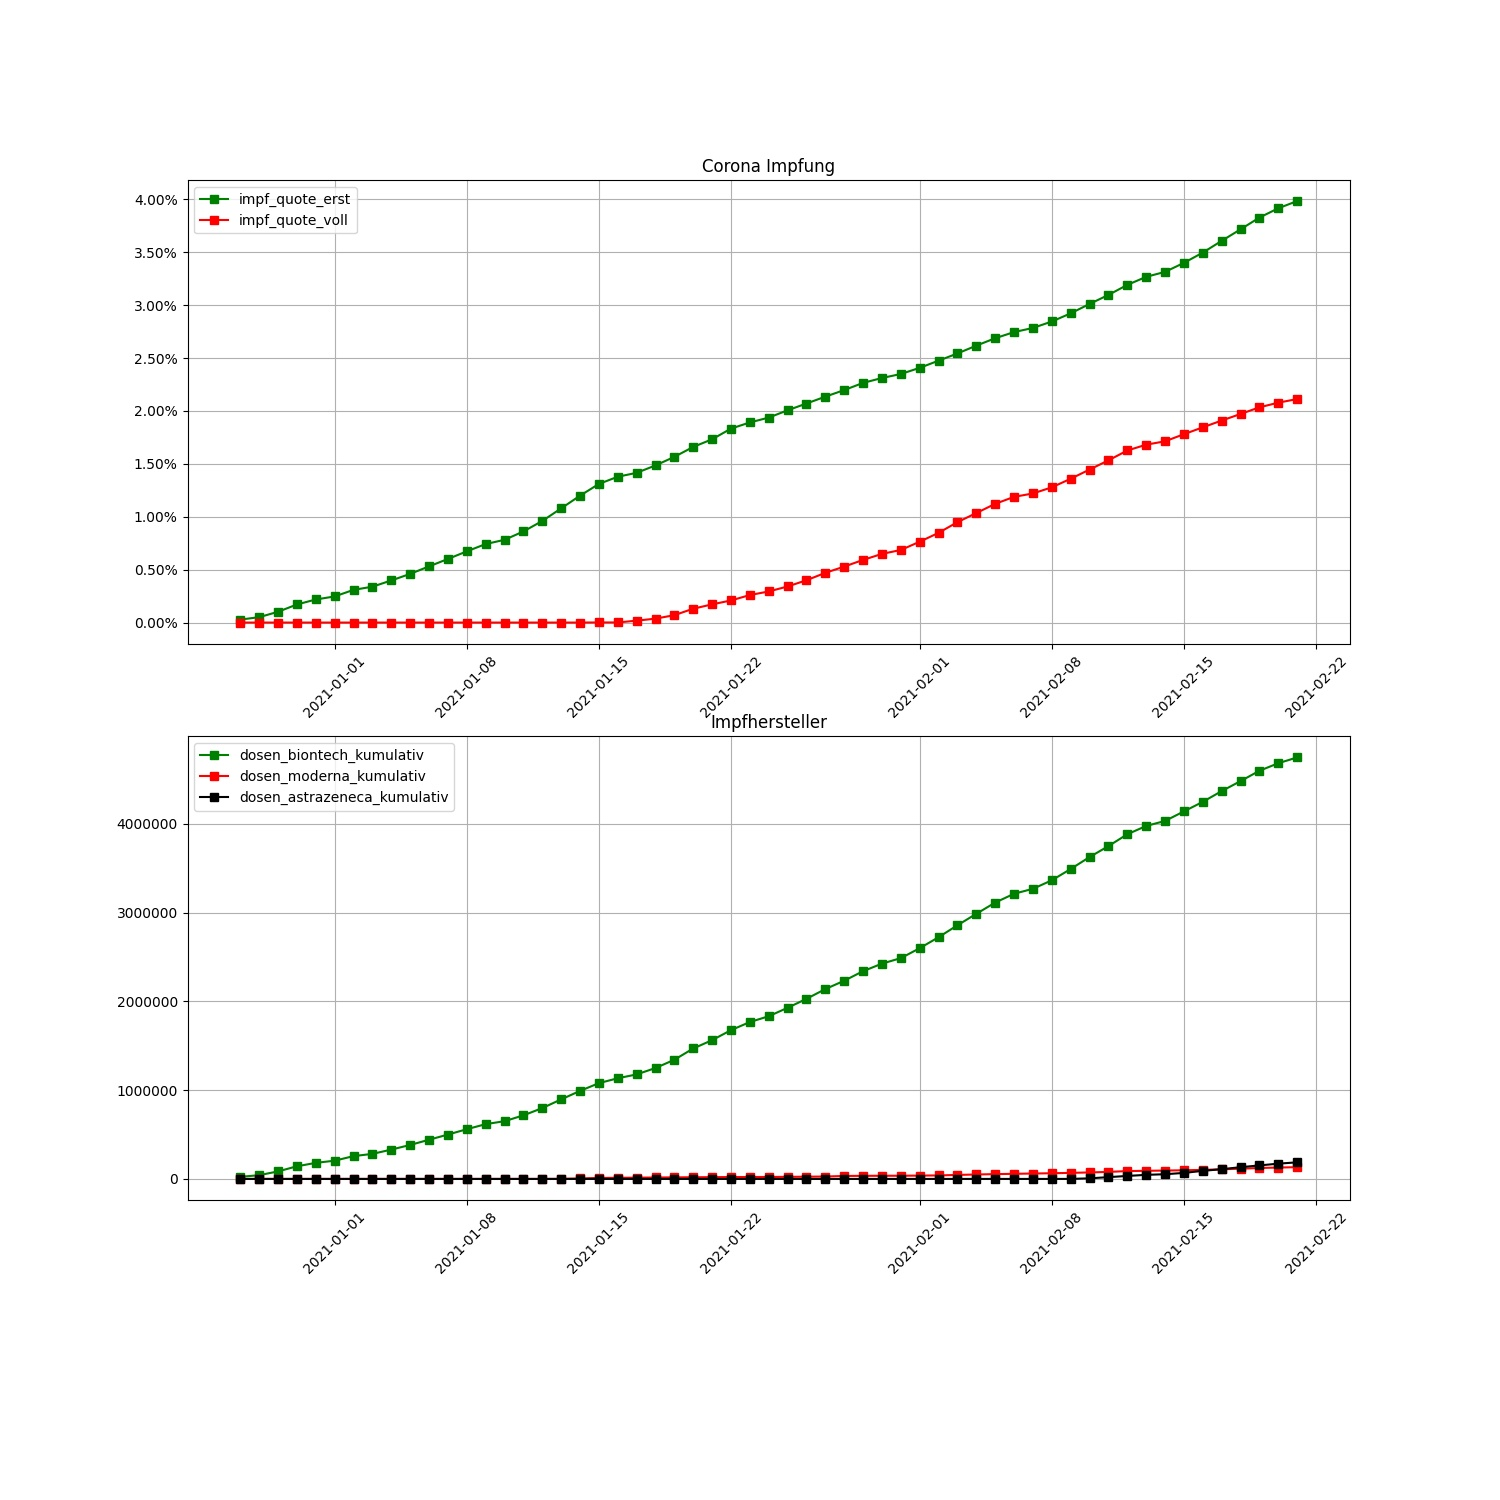
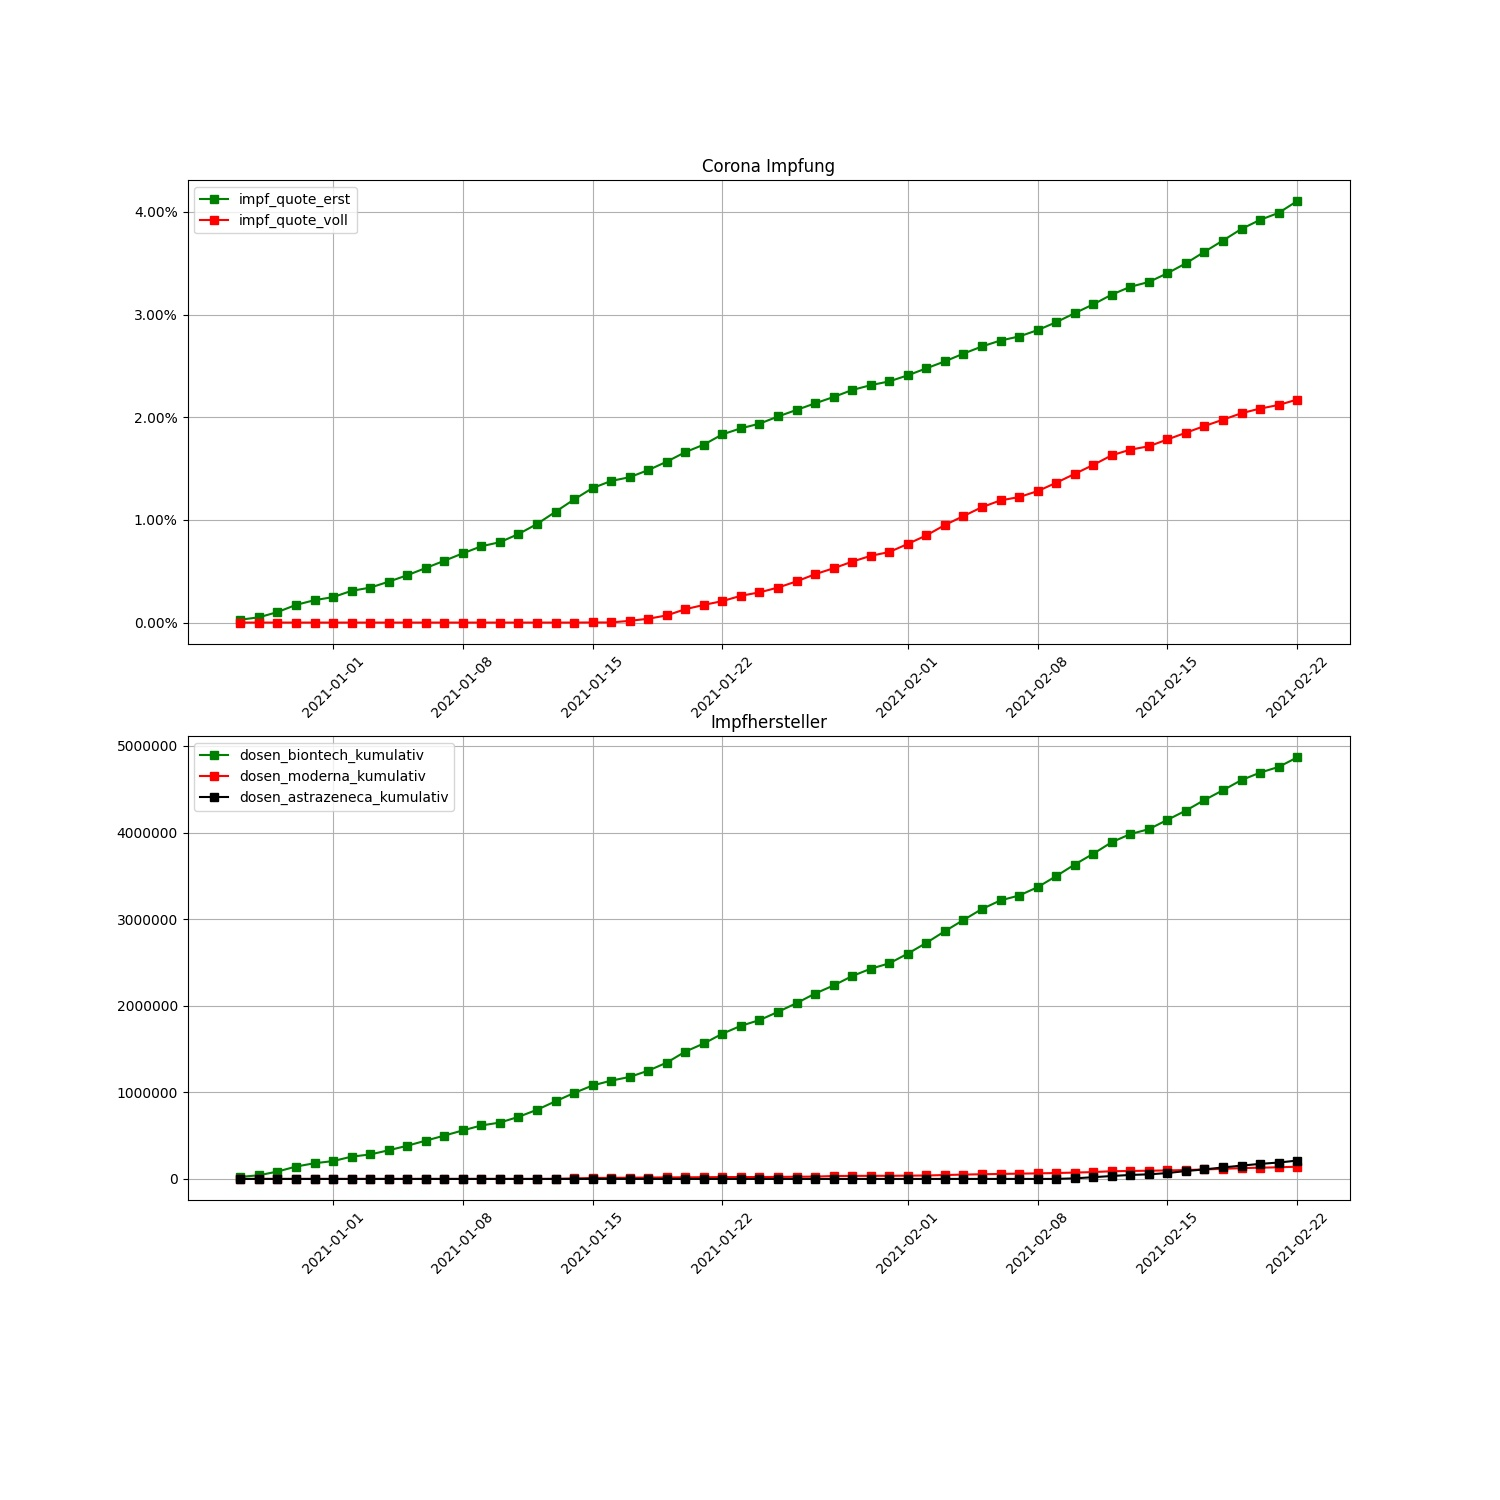
Crontab commit

diff --git a/Readme.md b/Readme.md
@@ -1,19 +1,19 @@
-# Corona vaccine Germany - Stand 2021-02-21
+# Corona vaccine Germany - Stand 2021-02-22
 ## Dashboard by [Simon Hamacher](https://www.shamacher.eu)
 ## Impfstoffe Übersicht
 **Impfstoffhersteller** | **verimpfte Dosen**
 -------- | :--------:
-Biontech | 4749455
-Moderna | 132354
-Astrazeneca | 187020
+Biontech | 4867212
+Moderna | 141238
+Astrazeneca | 211886
 
 
 ## Quoten
-**Total Verimpfte Dosen:** | 5068829
+**Total Verimpfte Dosen:** | 5220336
 -------- | :--------:
-**Erst-Impfquote** | 3.98 %
-**Voll-Impfquote** | 2.11 %
-**Imfungen Durchschnitt** | 88926.82 pro Tag
+**Erst-Impfquote** | 4.10 %
+**Voll-Impfquote** | 2.17 %
+**Imfungen Durchschnitt** | 90005.79 pro Tag
 ## Graphen
 <img src="Impfungen-Corona-01.jpg" alt="Corona-1" title="optionaler Titel" />
 <img src="Impfungen-Corona-02.jpg" alt="Corona-2" title="optionaler Titel" />
